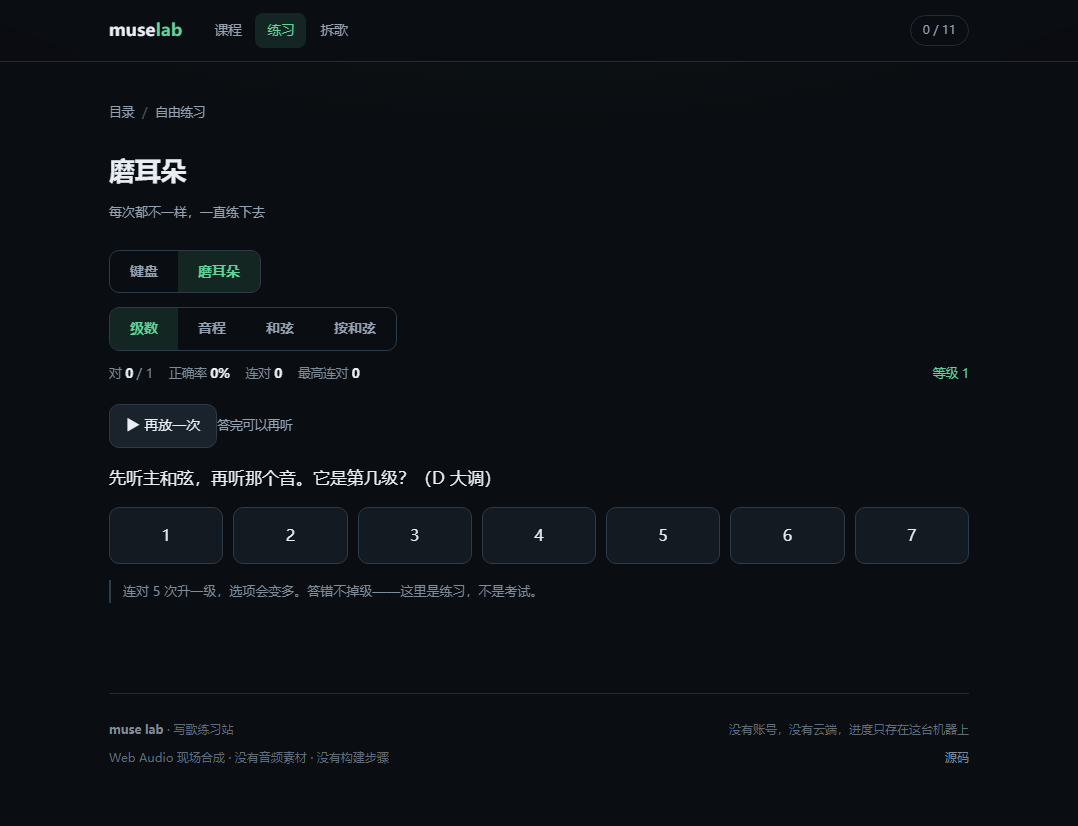
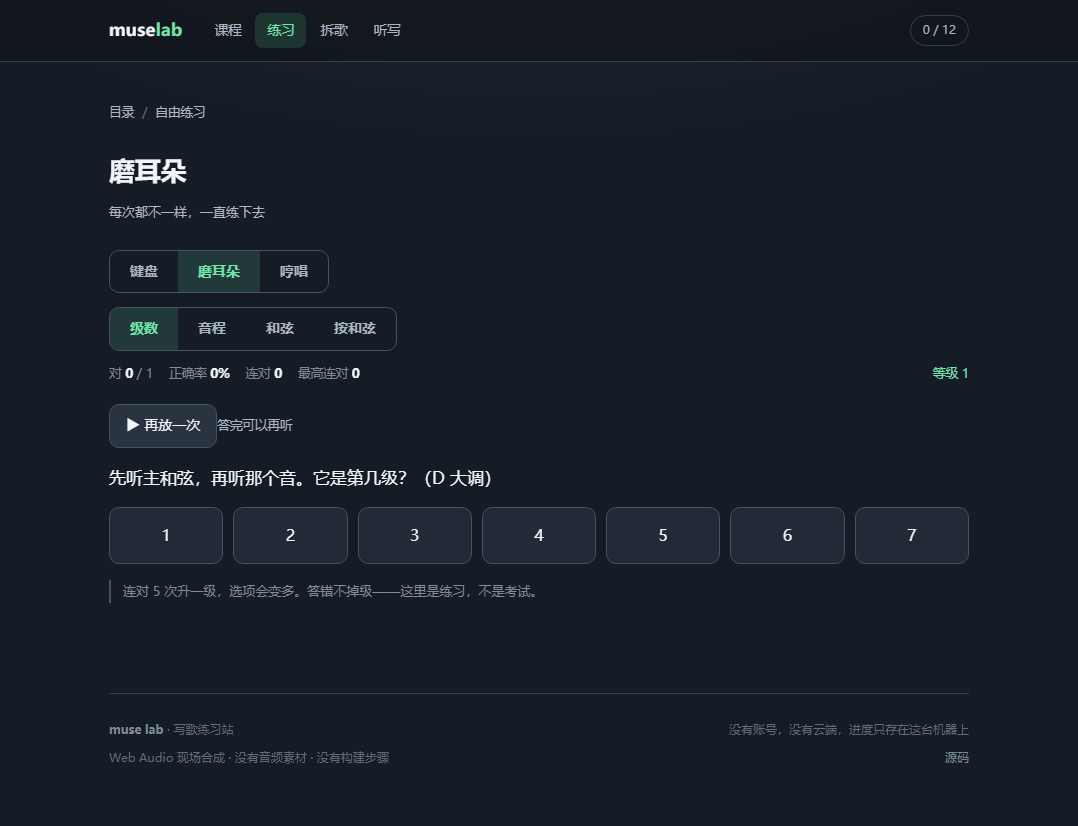
加第 0 课；整体提亮配色

diff --git a/css/style.css b/css/style.css
@@ -6,17 +6,17 @@
  */
 
 :root {
-  --bg: #0a0d11;
-  --bg2: #0f141a;
-  --panel: #141a21;
-  --panel2: #1a222b;
-  --line: #222c37;
-  --line2: #2e3b48;
-  --text: #e8eef4;
-  --muted: #93a1b0;
-  --accent: #5fd39a;
-  --accent-dim: rgba(95, 211, 154, .13);
-  --warn: #e0a44b;
+  --bg: #161c26;
+  --bg2: #1b222d;
+  --panel: #212a36;
+  --panel2: #2a3441;
+  --line: #33404f;
+  --line2: #435264;
+  --text: #f2f6fa;
+  --muted: #aab7c6;
+  --accent: #6ee7a8;
+  --accent-dim: rgba(110, 231, 168, .15);
+  --warn: #e8ae5c;
   --radius: 14px;
 }
 
@@ -29,7 +29,7 @@ body {
   min-height: 100vh;
   color: var(--text);
   background:
-    radial-gradient(1100px 520px at 50% -220px, rgba(95, 211, 154, .075), transparent 70%),
+    radial-gradient(1100px 520px at 50% -220px, rgba(110, 231, 168, .085), transparent 70%),
     var(--bg);
   font: 16px/1.7 ui-sans-serif, system-ui, -apple-system, "PingFang SC", "Microsoft YaHei", sans-serif;
   -webkit-font-smoothing: antialiased;
@@ -46,7 +46,7 @@ body {
   gap: 14px;
   padding: 13px max(20px, calc((100vw - 860px) / 2));
   border-bottom: 1px solid var(--line);
-  background: rgba(10, 13, 17, .86);
+  background: rgba(18, 22, 29, .88);
   backdrop-filter: blur(12px);
 }
 
@@ -169,7 +169,7 @@ a.card:active { transform: none; }
 
 .dots { display: flex; gap: 6px; flex-shrink: 0; }
 .dot { width: 22px; height: 3px; border-radius: 2px; background: var(--line2); }
-.dot.past { background: rgba(95, 211, 154, .45); }
+.dot.past { background: rgba(110, 231, 168, .5); }
 .dot.now { background: var(--accent); }
 
 .lesson-title { margin-bottom: 24px; }
@@ -366,7 +366,7 @@ a.card:active { transform: none; }
   border: 1px solid var(--line);
   border-radius: 12px;
   overflow: hidden;
-  background: #0e1216;
+  background: #141a22;
 }
 
 .roll { display: block; width: 100%; height: 240px; }
@@ -413,7 +413,7 @@ a.card:active { transform: none; }
   align-items: center;
   flex-wrap: wrap;
   gap: 9px;
-  margin: 0 0 26px;
+  margin: 16px 0 0;
   color: #7d8b99;
   font-size: 12.5px;
   letter-spacing: .04em;
@@ -504,7 +504,7 @@ a.card.tool:hover { border-color: #4a6a58; }
   align-items: center;
   gap: 6px;
   padding: 6px 10px;
-  border: 1px solid rgba(95, 211, 154, .5);
+  border: 1px solid rgba(110, 231, 168, .5);
   border-radius: 8px;
   background: var(--accent-dim);
   color: var(--accent);
@@ -814,7 +814,7 @@ a.card.tool:hover { border-color: #4a6a58; }
 
 /* ---------------- 全局细节 ---------------- */
 
-::selection { background: rgba(95, 211, 154, .26); color: #fff; }
+::selection { background: rgba(110, 231, 168, .26); color: #fff; }
 
 #app.enter { animation: rise .3s ease both; }
 
@@ -899,15 +899,15 @@ a.card.tool:hover { border-color: #4a6a58; }
   width: 9px; height: 9px;
   border-radius: 50%;
   background: var(--accent);
-  box-shadow: 0 0 0 0 rgba(95, 211, 154, .5);
+  box-shadow: 0 0 0 0 rgba(110, 231, 168, .5);
 }
 
 .hero-listen.on { color: var(--accent); }
 .hero-listen.on .dot { animation: ping 1.5s ease-out infinite; }
 
 @keyframes ping {
-  0% { box-shadow: 0 0 0 0 rgba(95, 211, 154, .5); }
-  100% { box-shadow: 0 0 0 12px rgba(95, 211, 154, 0); }
+  0% { box-shadow: 0 0 0 0 rgba(110, 231, 168, .5); }
+  100% { box-shadow: 0 0 0 12px rgba(110, 231, 168, 0); }
 }
 
 /* ---------------- 首页：进度与分组 ---------------- */

diff --git a/js/lessons.js b/js/lessons.js
@@ -91,6 +91,60 @@
   };
 
   /* ============================================================
+   * 第 0 课：开始之前
+   * ============================================================ */
+
+  const L0 = {
+    id: 'l0',
+    no: 0,
+    title: '先看这一课',
+    sub: '这个站怎么用',
+    keyPc: 2,
+    keyLabel: 'D 大调',
+    goal: '搞清楚这里每节课的节奏，再开始第一课。',
+    steps: [
+      {
+        kind: 'text',
+        title: '每一课都是三个动作',
+        body: [
+          '**听**：先听一小段，我告诉你要听什么。',
+          '**做**：动手——摆和弦、摆音、摆鼓，或者只是选一个答案。',
+          '**换一道新题**：确认你会了，再往下走。',
+          '这里没有考试，也没有分数。只有「做完了」和「还没做」。'
+        ]
+      },
+      {
+        kind: 'text',
+        title: '你需要什么',
+        body: [
+          '**一副耳机。** 手机外放听不出 60Hz 以下，讲低音线的那几课会等于没上。',
+          '**一台能出声的设备。** 不用装任何软件——所有声音都是浏览器现算的，断网也能用。',
+          '**到第 11 课才需要 Studio One 和 VOCALOID。** 前面九课用不到，先不用管。'
+        ]
+      },
+      {
+        kind: 'checklist',
+        title: '开始之前',
+        intro: '三条，做完再往下。',
+        items: [
+          '戴上耳机（不是外放）',
+          '把音量调到能听清低音——随便放一段鼓，确认你听得到底鼓',
+          '留出 10 分钟不被打断的时间'
+        ]
+      },
+      {
+        kind: 'text',
+        title: '怎么算过关',
+        body: [
+          '不是「看懂了」，是**能自己再做一遍**。',
+          '没听懂就停在这节课重来——重讲是最快的路，不是拖进度。',
+          '答错不扣分、不掉级。所有判断只是让你知道下一步该练什么。'
+        ]
+      }
+    ]
+  };
+
+  /* ============================================================
    * 第 1–3 课：只用耳朵
    * ============================================================ */
 
@@ -954,7 +1008,7 @@
    * 目录
    * ============================================================ */
 
-  L.LESSONS = [L1, L2, L3, L4, L5, L7, L8, L10, L11, L12, L13];
+  L.LESSONS = [L0, L1, L2, L3, L4, L5, L7, L8, L10, L11, L12, L13];
 
   // 还没有待做的课了，留个空数组省得别处判空
   L.PLANNED = [];

diff --git a/js/app.js b/js/app.js
@@ -177,9 +177,10 @@
 
     // 继续：第一课还没过的
     const next = ML.LESSONS.filter(function (l) { return !MP.isDone(l.id); })[0] || ML.LESSONS[0];
-    const nextLabel = done === 0
-      ? '从第 1 课开始'
-      : (done === total ? '从头再看一遍' : '继续第 ' + next.no + ' 课');
+    const nextLabel = done === total
+      ? '从头再看一遍'
+      : (next.no === 0 ? '先看这一课'
+        : (done === 0 ? '从第 ' + next.no + ' 课开始' : '继续第 ' + next.no + ' 课'));
 
     function card(l) {
       const isDone = MP.isDone(l.id);
@@ -208,13 +209,14 @@
       );
     }
 
-    const listen = ML.LESSONS.filter(function (l) { return l.no <= 3; });
+    const intro = ML.LESSONS.filter(function (l) { return l.no === 0; });
+    const listen = ML.LESSONS.filter(function (l) { return l.no >= 1 && l.no <= 3; });
     const write = ML.LESSONS.filter(function (l) { return l.no > 3; });
 
     app.innerHTML =
       '<section class="home">' +
         '<div class="hero">' +
-          '<p class="kicker">写歌练习站 · 十一课</p>' +
+          '<p class="kicker">写歌练习站 · ' + total + ' 课</p>' +
           '<h1>从听出「落」开始，<br>写到自己的 8 小节。</h1>' +
           '<p class="lead">' +
             '每一课只干一件事：先听，再动手，然后换一道新题。' +
@@ -228,6 +230,10 @@
           '<button class="hero-listen" id="hero-listen">' +
             '<span class="dot"></span>先听一段：D–A–Bm–G，带鼓' +
           '</button>' +
+          '<div class="arc" aria-hidden="true">' +
+            '<span>听</span><i></i><span>和声</span><i></i><span>旋律</span>' +
+            '<i></i><span>句子</span><i></i><span>节奏</span><i></i><span>8 小节</span>' +
+          '</div>' +
         '</div>' +
 
         '<div class="progress-band">' +
@@ -235,6 +241,7 @@
           '<span>已完成 <b>' + done + '</b> / ' + total + '</span>' +
         '</div>' +
 
+        phase('开始之前', '两分钟，说清楚这里每一节课的节奏。', intro) +
         phase('第一步 · 打开耳朵', '三课，不碰软件、不出现乐理名词。只有一个动作：听，然后选。', listen) +
         phase('第二步 · 写出来', '从两个和弦起手，一路摆到 8 小节的主歌和副歌。', write) +
 

diff --git a/tools/browser-test.js b/tools/browser-test.js
@@ -131,9 +131,9 @@ async function main() {
 
     /* ---------- 目录 ---------- */
     console.log('\n[1] 目录');
-    ok(await js('return document.querySelectorAll(".card:not(.tool)").length') === 11, '十一张课程卡片（1–13 课，去掉 6、9）');
-    ok(await js('return document.querySelectorAll("a.card:not(.tool)").length') === 11, '十一课都是链接');
-    ok(await js('return /^01$/.test(document.querySelector(".card-no").textContent)'), '第一张卡是第 1 课');
+    ok(await js('return document.querySelectorAll(".card:not(.tool)").length') === 12, '十二张课程卡片（0–13）');
+    ok(await js('return document.querySelectorAll("a.card:not(.tool)").length') === 12, '十二课都是链接');
+    ok(await js('return /^00$/.test(document.querySelector(".card-no").textContent)'), '第一张卡是第 0 课');
     ok(await js('return document.querySelectorAll(".tool-card").length') === 3, '首页有三个工具入口');
     ok(await js('return document.querySelectorAll(".site-nav a").length') === 4, '顶栏四个导航');
     ok(await js('return !!document.querySelector(".hero .btn.primary")'), 'hero 有主按钮');

diff --git a/js/practice.js b/js/practice.js
@@ -641,7 +641,7 @@
     ctx.setTransform(dpr, 0, 0, dpr, 0, 0);
 
     ctx.clearRect(0, 0, w, h);
-    ctx.fillStyle = '#0e1216';
+    ctx.fillStyle = '#141a22';
     ctx.fillRect(0, 0, w, h);
 
     const lo = 45, hi = 79;

diff --git a/js/audio-lab.js b/js/audio-lab.js
@@ -317,7 +317,7 @@
     const rowH = gridH / 12;
 
     ctx.clearRect(0, 0, w, h);
-    ctx.fillStyle = '#0e1216';
+    ctx.fillStyle = '#141a22';
     ctx.fillRect(0, 0, w, h);
 
     const frames = res.frames;

diff --git a/js/pianoroll.js b/js/pianoroll.js
@@ -12,7 +12,7 @@
   const PR = {};
 
   const COLOR = {
-    bg: '#0e1216',
+    bg: '#141a22',
     stripe: 'rgba(255,255,255,0.022)',
     grid: 'rgba(255,255,255,0.055)',
     bar: 'rgba(255,255,255,0.18)',

diff --git a/README.md b/README.md
@@ -1,9 +1,10 @@
-# muse lab
+# muse lab
 
 给写 Vocaloid 的人用的练习站。一课只干一件事：**先听，再动手，然后换一道新题。**
 
-十一课能走完：
+十二课能走完：
 
+- **第 0 课「先看这一课」** —— 这里每节课的节奏、要准备什么、怎么算过关
 - **第 1 课「它结束了没有」** —— 不用乐理词，听出「落地」的那一下
 - **第 2 课「薄的和厚的」** —— 主歌和副歌的差别是「更满」，不是「更响」
 - **第 3 课「最低那条线」** —— 把注意力放到贝斯上，听出歌往哪走
@@ -16,7 +17,7 @@
 - **第 12 课「加一个鼓」** —— 八分踩镲不停、底鼓 1、3、军鼓 2、4，导出的 `.mid` 里多一条 **Drums** 轨
 - **第 13 课「主歌和副歌」** —— 同一个鼓摆两套密度：主歌 half-time 沉住，副歌打开
 
-前三课不碰软件、不出现乐理名词，只有一个动作：**听，然后选**。
+前三课不碰软件、不出现乐理名词，只有一个动作：**听，然后选**。第 0 课在它们前面，用两分钟说清楚这里怎么用。
 
 另外还有一个反向的工具：**「拆一首歌」** —— 把和弦打进去，它告诉你是 `1-5-6m-4` 还是 `i–VI–III–VII`。学会写之后，回头听懂别人怎么写。
 
@@ -280,7 +281,7 @@ web/
 │   └── app.js          路由 / 界面 / 交互
 ├── docs/preview/       README 里的截图
 └── tools/
-    ├── self-test.js    内核自检（乐理、课程、MIDI、走带、鼓、出题、DSP），261 项
+    ├── self-test.js    内核自检（乐理、课程、MIDI、走带、鼓、出题、DSP），269 项
     ├── browser-test.js 端到端（CDP 驱动无头 Chrome，含离线音频分析），121 项
     └── shots/          测试自动生成的截图
 ```
@@ -355,7 +356,7 @@ git push -u origin main
 
 ## 已知边界
 
-- 十一课：1、2、3、4、5、7、8、10、11、12、13。第 6 课（加 4）和第 9 课（加 6m）的内容已经被第 8 课吸收，没单独做。
+- 十二课：0、1、2、3、4、5、7、8、10、11、12、13。第 6 课（加 4）和第 9 课（加 6m）的内容已经被第 8 课吸收，没单独做。
 - 拆歌只处理调内的七个和弦，转调、借用和弦、七和弦都认不出级数；小调只做自然小调，和声小调的 V 会显示成 `V` 但不在音板里。
 - 没有账号、没有云端，进度只在这台机器上。清缓存前没做导出备份。
 - 第 5 课只允许 6 个音（D4 E4 F#4 A4 B4 D5），也每人每拍一个音——这一版故意限制，先把「强拍落和弦音」练成条件反射。
